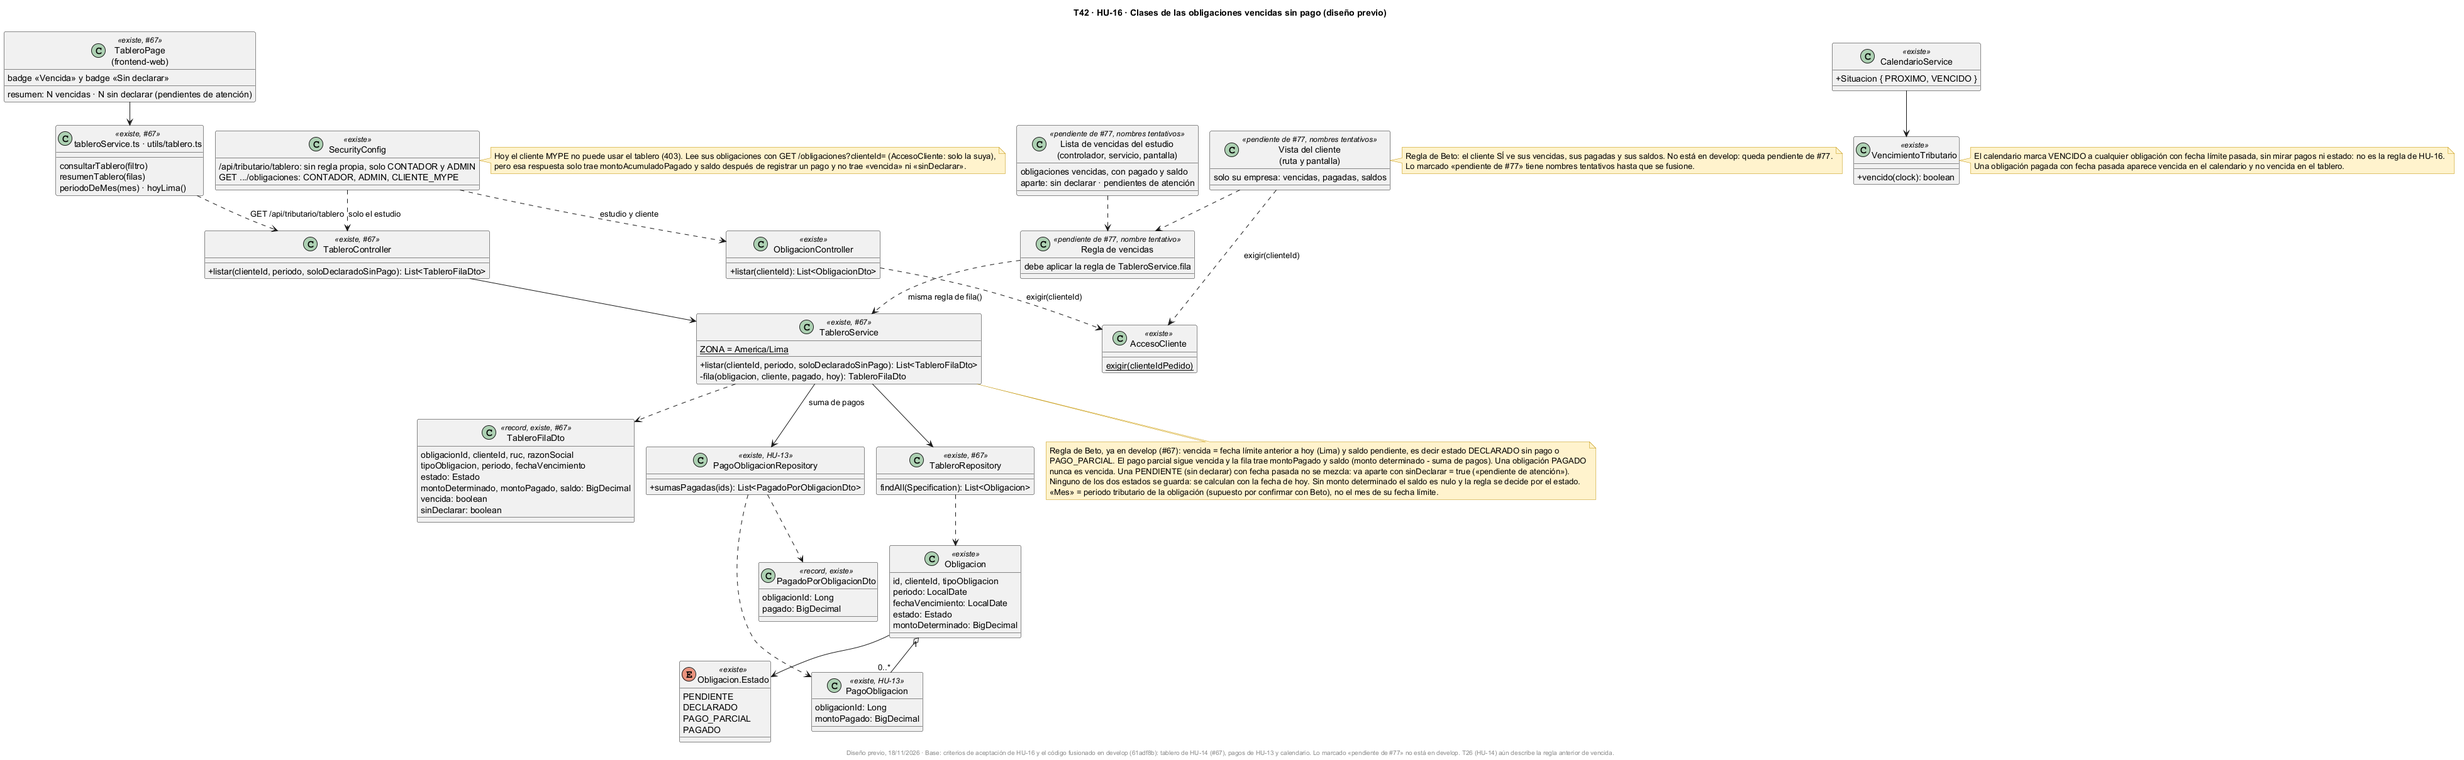
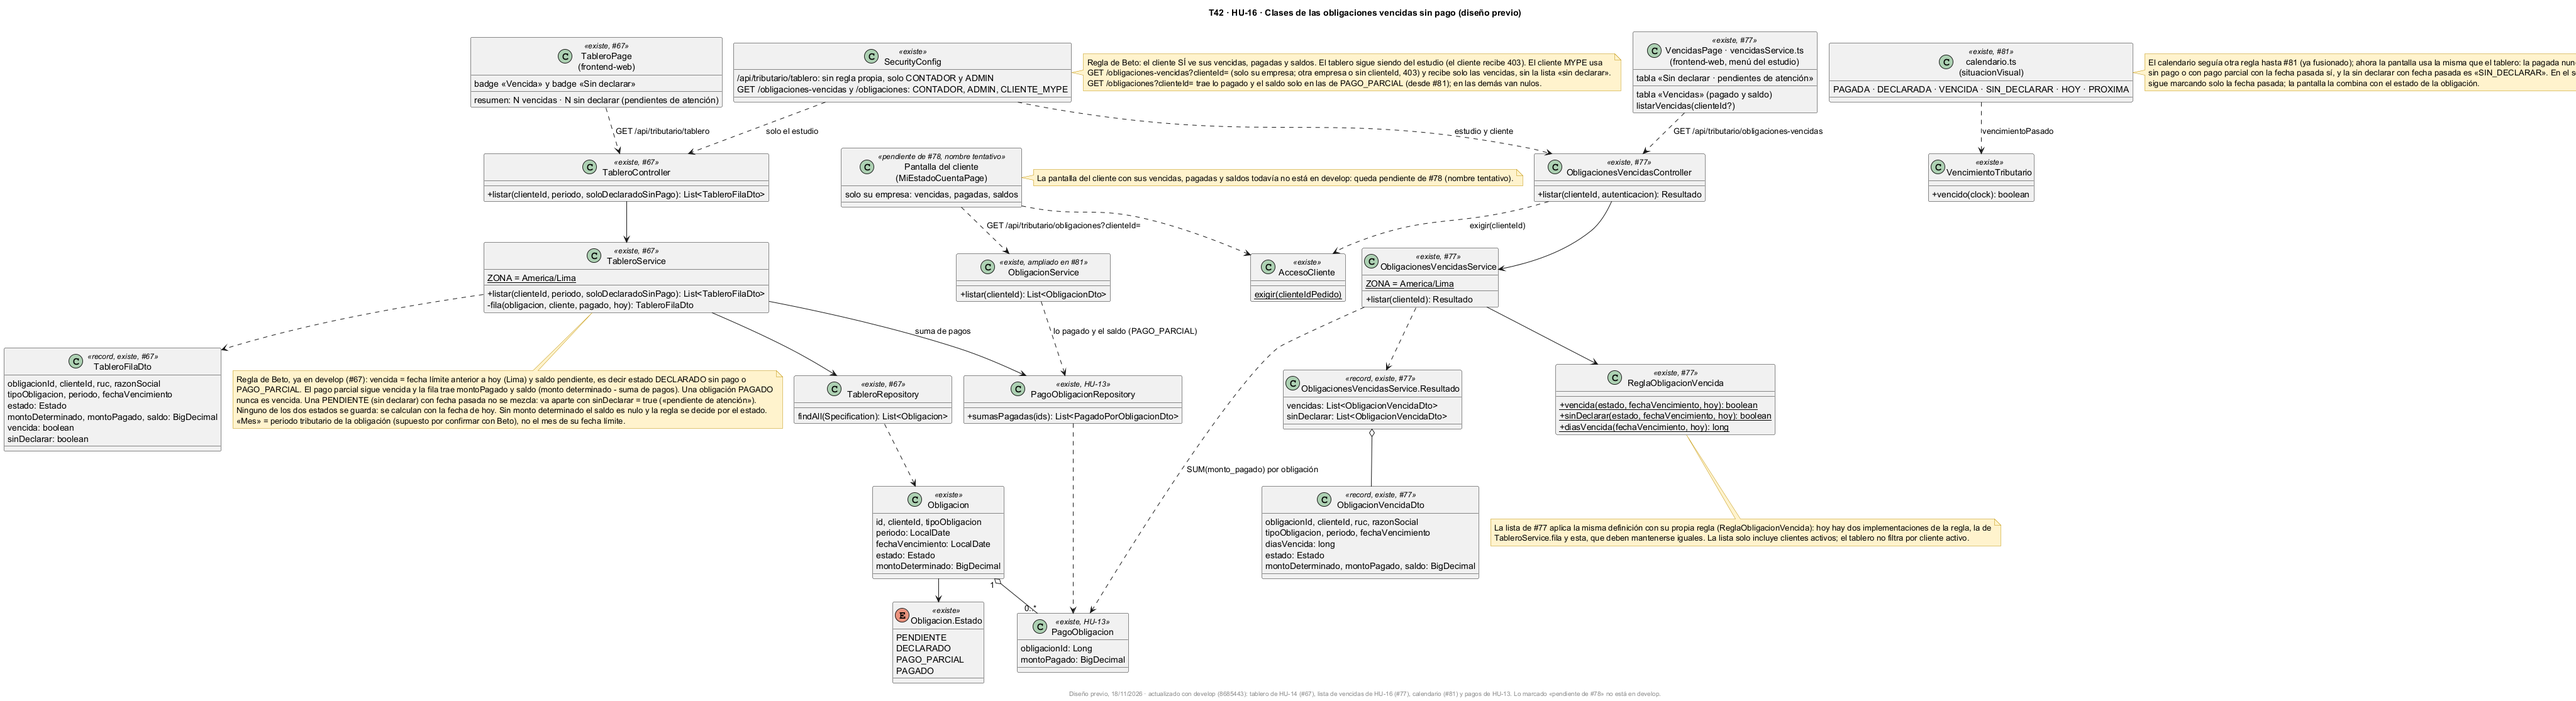
T42: la lista de vencidas de #77 y el calendario de #81 ya están en develop; se corrige lo del listado con pagado y saldo y se quita lo de T26

diff --git a/docs/uml/TRAZABILIDAD.md b/docs/uml/TRAZABILIDAD.md
@@ -95,7 +95,7 @@ La numeración de las tareas vuelve a empezar en cada sprint: T6, T48, T63, T72,
 | T156 | HU-23 | [`T156-HU23-clases`](T156-HU23-clases.puml) · [png](img/T156-HU23-clases.png) · [`T156-HU23-secuencia-registrar-incidencia`](T156-HU23-secuencia-registrar-incidencia.puml) · [png](img/T156-HU23-secuencia-registrar-incidencia.png) · [`T156-HU23-er-incidencias`](T156-HU23-er-incidencias.puml) · [png](img/T156-HU23-er-incidencias.png) | #30 | La lista de tipos de incidencia es un supuesto |
 | T12 | HU-37 | [`T12-HU37-actividad-crear-acceso-cliente`](T12-HU37-actividad-crear-acceso-cliente.puml) · [png](img/T12-HU37-actividad-crear-acceso-cliente.png) · [`T12-HU37-secuencia-crear-acceso-cliente`](T12-HU37-secuencia-crear-acceso-cliente.puml) · [png](img/T12-HU37-secuencia-crear-acceso-cliente.png) · [`T12-HU37-er-cuenta-cliente`](T12-HU37-er-cuenta-cliente.puml) · [png](img/T12-HU37-er-cuenta-cliente.png) | #42 y #45 | Actualizado el 10/11 con las decisiones definitivas de Beto (una cuenta por empresa, ingreso con correo, contraseña temporal mostrada una sola vez, cambio obligatorio en el primer ingreso). Sigue pendiente de confirmar con Beto: desactivar o bloquear una cuenta, y qué pasa si el cliente usa la temporal y no la cambia. Supuestos del diseño: el correo es el username (hasta 60 caracteres), índice único parcial sobre `cliente_id`, token restringido sin roles y regla de 8 a 72 caracteres para la nueva contraseña |
 | T34 | HU-15 | [`T34-HU15-clases`](T34-HU15-clases.puml) · [png](img/T34-HU15-clases.png) · [`T34-HU15-secuencia-recordatorio-pago`](T34-HU15-secuencia-recordatorio-pago.puml) · [png](img/T34-HU15-secuencia-recordatorio-pago.png) · [`T34-HU15-er-recordatorios-pago`](T34-HU15-er-recordatorios-pago.puml) · [png](img/T34-HU15-er-recordatorios-pago.png) | Este PR (diseño previo, 18/11/2026) | Basado solo en código fusionado: `AvisoInternoService` (#64), `ReglaVencimientoProximo` (#65), `AvisoClienteService`, `AvisoClienteProgramador`, `AvisoClienteController` y tabla `avisos_cliente` (#68), `PagoObligacionService` (HU-13). **Pendiente de #79** (no está en develop): el recordatorio programado por el contador, su tabla `recordatorios_pago`, el programador y la recuperación de los atrasados (nombres tentativos). Reglas de Beto: el pago parcial está permitido y se muestra el saldo; el recordatorio atrasado se envía una sola vez al volver el sistema y solo si la obligación sigue pendiente. Supuesto: canal dentro del sistema; correo u otro canal externo sin definir |
-| T42 | HU-16 | [`T42-HU16-clases`](T42-HU16-clases.puml) · [png](img/T42-HU16-clases.png) · [`T42-HU16-secuencia-vencidas-sin-pago`](T42-HU16-secuencia-vencidas-sin-pago.puml) · [png](img/T42-HU16-secuencia-vencidas-sin-pago.png) | Este PR (diseño previo, 18/11/2026) | Basado solo en código fusionado: `TableroController`, `TableroService.fila`, `TableroFilaDto` (`vencida`, `sinDeclarar`, `montoPagado`, `saldo`) y `TableroPage` (#67), `PagoObligacionRepository.sumasPagadas` (HU-13), `CalendarioService`/`VencimientoTributario`, `ObligacionController` y `AccesoCliente`. Regla de Beto: vencida = fecha pasada y saldo pendiente (DECLARADO sin pago o PAGO_PARCIAL; el pago parcial sigue vencida y muestra pagado y saldo; PAGADO nunca); las sin declarar con fecha pasada van aparte como «pendientes de atención» (`sinDeclarar`); mes = periodo tributario (por confirmar con Beto). Sin tablas nuevas, por eso no hay diagrama ER. **Pendiente de #77** (no está en develop; nombres tentativos): la lista de vencidas del estudio, su pantalla y la vista del cliente (el cliente sí ve sus vencidas, pagadas y saldos; hoy el tablero le responde 403). Ojo: T26 (HU-14) todavía describe la regla anterior de vencida (PENDIENTE o PAGO_PARCIAL) | Se completará con las pruebas de HU-16 |
+| T42 | HU-16 | [`T42-HU16-clases`](T42-HU16-clases.puml) · [png](img/T42-HU16-clases.png) · [`T42-HU16-secuencia-vencidas-sin-pago`](T42-HU16-secuencia-vencidas-sin-pago.puml) · [png](img/T42-HU16-secuencia-vencidas-sin-pago.png) | Este PR (diseño previo, 18/11/2026; actualizado con develop tras fusionar #81 y #77) | Basado solo en código fusionado: `TableroController`, `TableroService.fila`, `TableroFilaDto` (`vencida`, `sinDeclarar`, `montoPagado`, `saldo`) y `TableroPage` (#67); `ObligacionesVencidasController`, `ObligacionesVencidasService`, `ReglaObligacionVencida`, `ObligacionVencidaDto`, `VencidasPage` y `vencidasService.ts` (#77); `situacionVisual` del calendario y `ObligacionService.listar` con pagado y saldo en el pago parcial (#81); `PagoObligacionRepository.sumasPagadas` (HU-13); `AccesoCliente`. Regla de Beto: vencida = fecha pasada y saldo pendiente (DECLARADO sin pago o PAGO_PARCIAL; el pago parcial sigue vencida y muestra pagado y saldo; PAGADO nunca); las sin declarar con fecha pasada van aparte como «pendientes de atención» (`sinDeclarar`); mes = periodo tributario (por confirmar con Beto). El cliente ve sus vencidas por `GET /obligaciones-vencidas?clienteId=` (solo su empresa, sin la lista «sin declarar»). Hay dos implementaciones de la regla (`TableroService.fila` y `ReglaObligacionVencida`) que deben mantenerse iguales. Sin tablas nuevas, por eso no hay diagrama ER. **Pendiente de #78** (no está en develop; nombre tentativo): la pantalla del cliente con sus vencidas, pagadas y saldos | Se completará con las pruebas de HU-16 |
 
 **Ojo con «85»:** «T85 de HU-37» es la tarea 85 del Sprint 1, el diagrama de actividad de crear acceso de cliente (archivado en `archivo-sprint1/`, reemplazado por T12). No es la «tarea 85 = 94» de `docs/sprint1-jeanpierre/HU-38.md`, que es la prueba de integración del aislamiento entre clientes. T13 y T14 son tareas del Sprint 2 (la opción en la ficha y la API que crea la cuenta).
 
